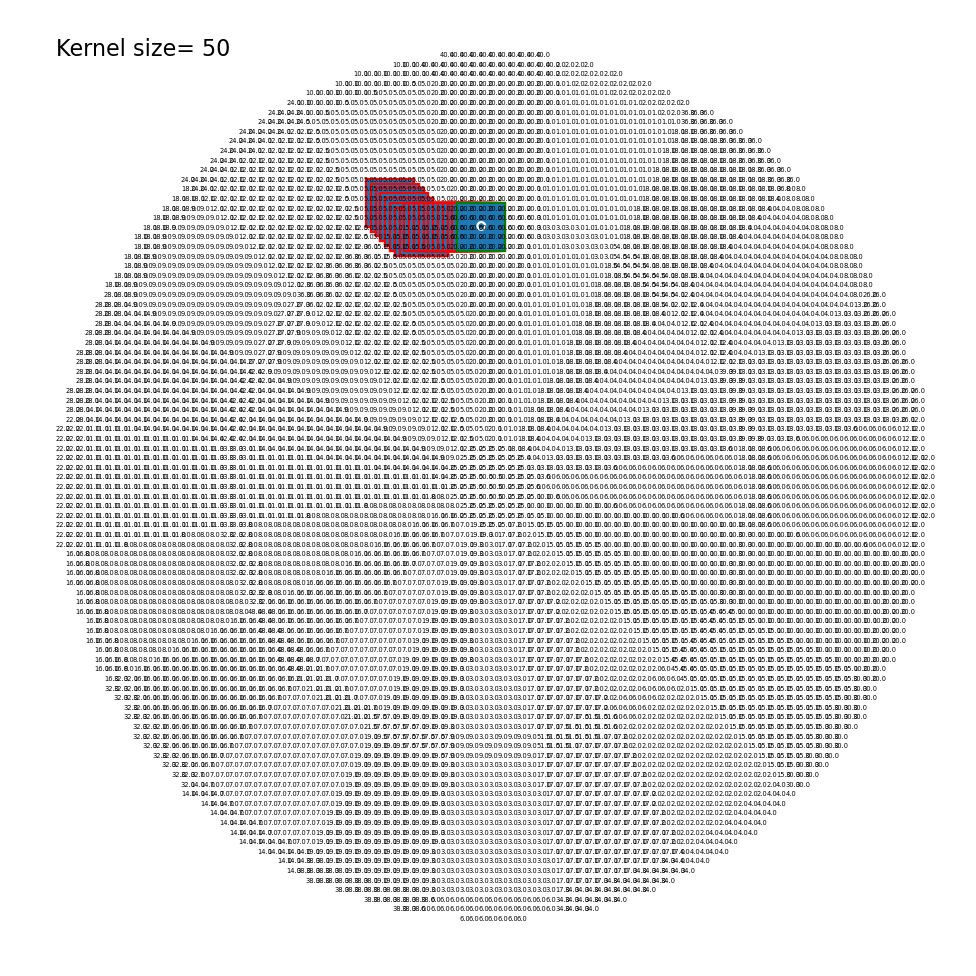
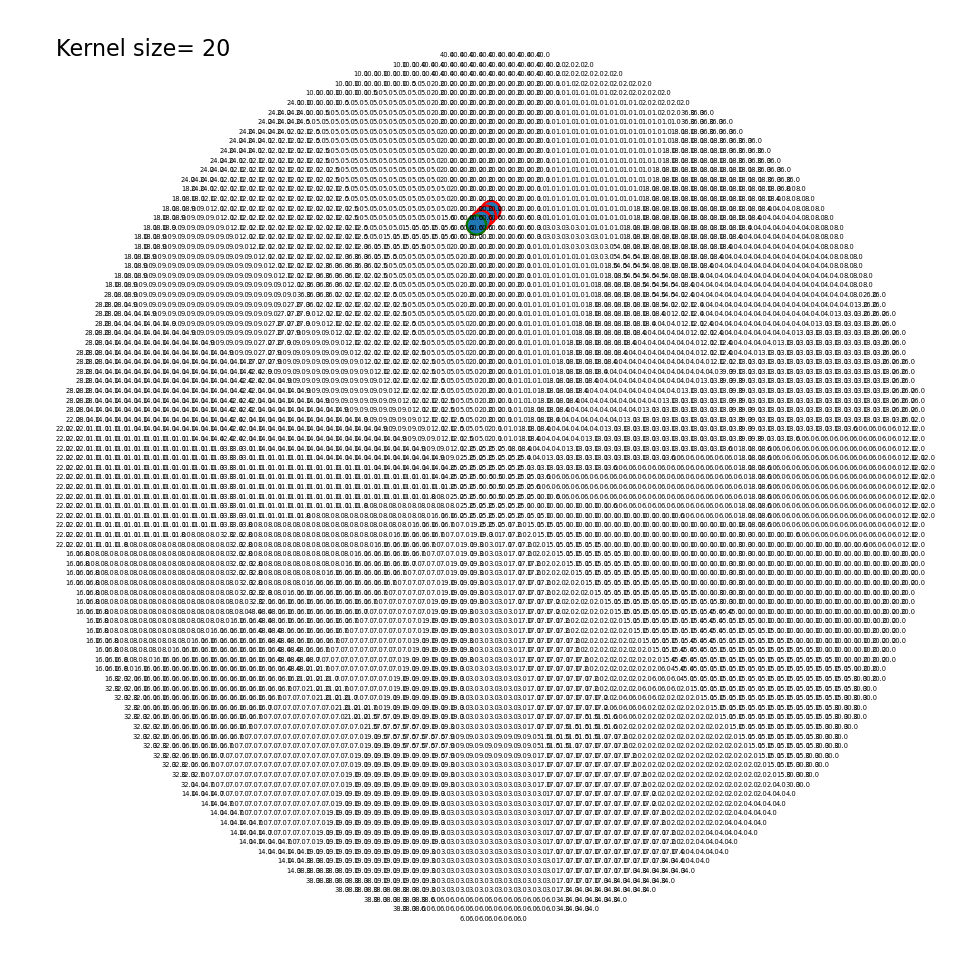
Circular kernel

Changed region(s): [[0.3689, 0.1844, 0.5225, 0.2766]]

diff --git a/gaussian.py b/gaussian.py
@@ -9,8 +9,23 @@ class Gaussian():
         self.gaussian = None
     
     def calcCircularMask(self, size):
+        """Calculates a circular numpy mask, with ones at positions in the circle
+           and zeros in positions outside the circle.
+           Circle has radius of half of the size.
+
+        Args:
+            size (int): length of the NxN 2D array, and diameter of the circular 
+                        mask.
+        """
         mask = np.ones((size, size), dtype=int)
-        print(mask)
+        radius = (size - 1) / 2
+        
+        for i in range(size):
+            for j in range(size):
+                if np.sqrt((i-radius)**2 + (j-radius)**2) > radius + 1:
+                    mask[i][j] = 0
+        return mask
+            
     
     def calcCircularGaussian(self, sigma, mu, size):
         """Calculates and stores a circular Gaussian kernel, with zeros in the
@@ -24,7 +39,10 @@ class Gaussian():
         x, y = np.meshgrid(np.linspace(-1,1,size), np.linspace(-1,1,size))
         d = np.sqrt(x*x + y*y)
         self.gaussian = np.exp(-((d-mu)**2 / (2.0 * sigma**2)))
-        circlular_mask = self.calcCircularMask(size)
+        
+        circular_mask = self.calcCircularMask(size)
+        self.gaussian = self.gaussian * circular_mask
+            
         # Normalise
         self.gaussian = self.gaussian / np.sum(self.gaussian)
         

diff --git a/dartboard.py b/dartboard.py
@@ -127,8 +127,10 @@ class Dartboard:
                     edge_colour = 'g'
                 else:
                     edge_colour = 'r'
-                square = plt.Rectangle(top_left, kernel_size, kernel_size, linewidth=2, edgecolor=edge_colour)
-                plt.gca().add_patch(square)
+                # square = plt.Rectangle(top_left, kernel_size, kernel_size, linewidth=2, edgecolor=edge_colour)
+                # plt.gca().add_patch(square)
+                circle = plt.Circle(xy=c, radius=kernel_size/2, linewidth=2, edgecolor=edge_colour)
+                plt.gca().add_patch(circle)
         
         if kernel_size > 20:
             # Display small green dot at exact point of maxima 

diff --git a/main.py b/main.py
@@ -187,5 +187,5 @@ if __name__ == "__main__":
     # algorithm.run(db.board, kernel_size=126, loops=1000, d=5)
     # Triple 19
     # algorithm.run(db.board, kernel_size=127, loops=1000, d=5)
-    algorithm.run(db.board, kernel_size=50, loops=500, d=5)
-    # algorithm.runOverRange(db.board, k_lower=120, k_higher=150, loops=500, step=1, display="none")
+    #algorithm.run(db.board, kernel_size=20, loops=500, d=5)
+    algorithm.runOverRange(db.board, k_lower=130, k_higher=140, loops=500, step=1, display="none")
